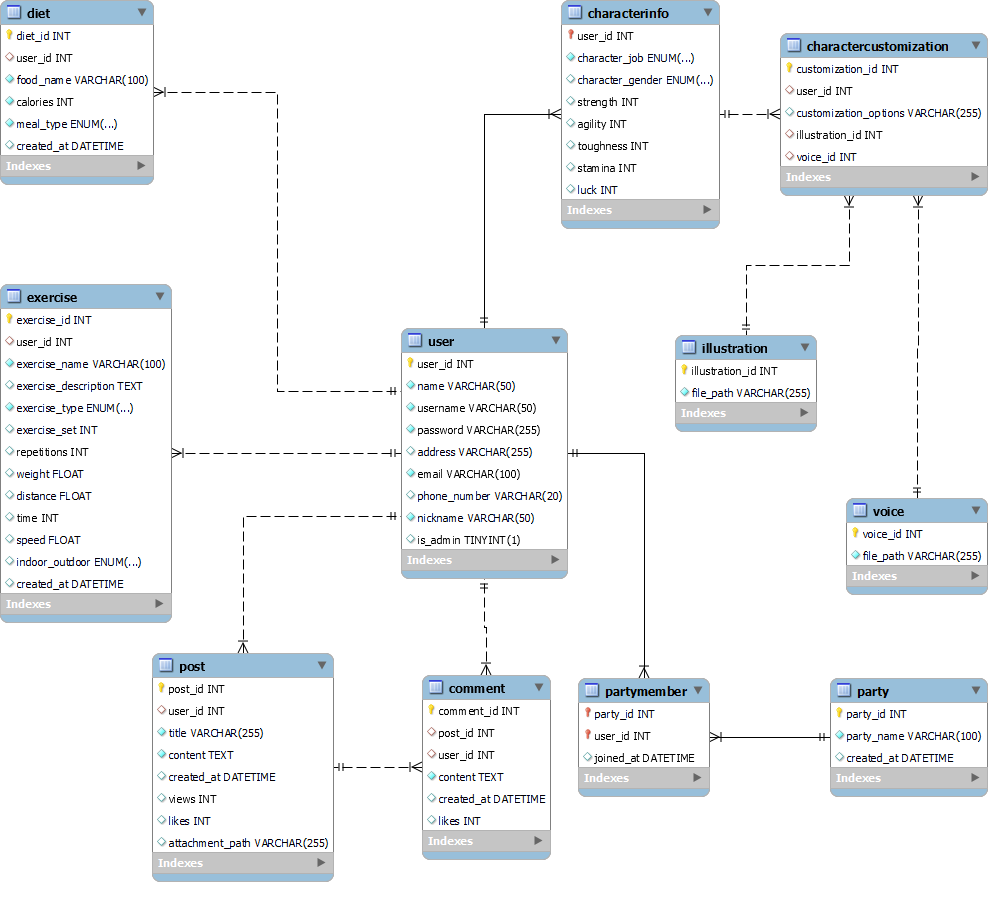
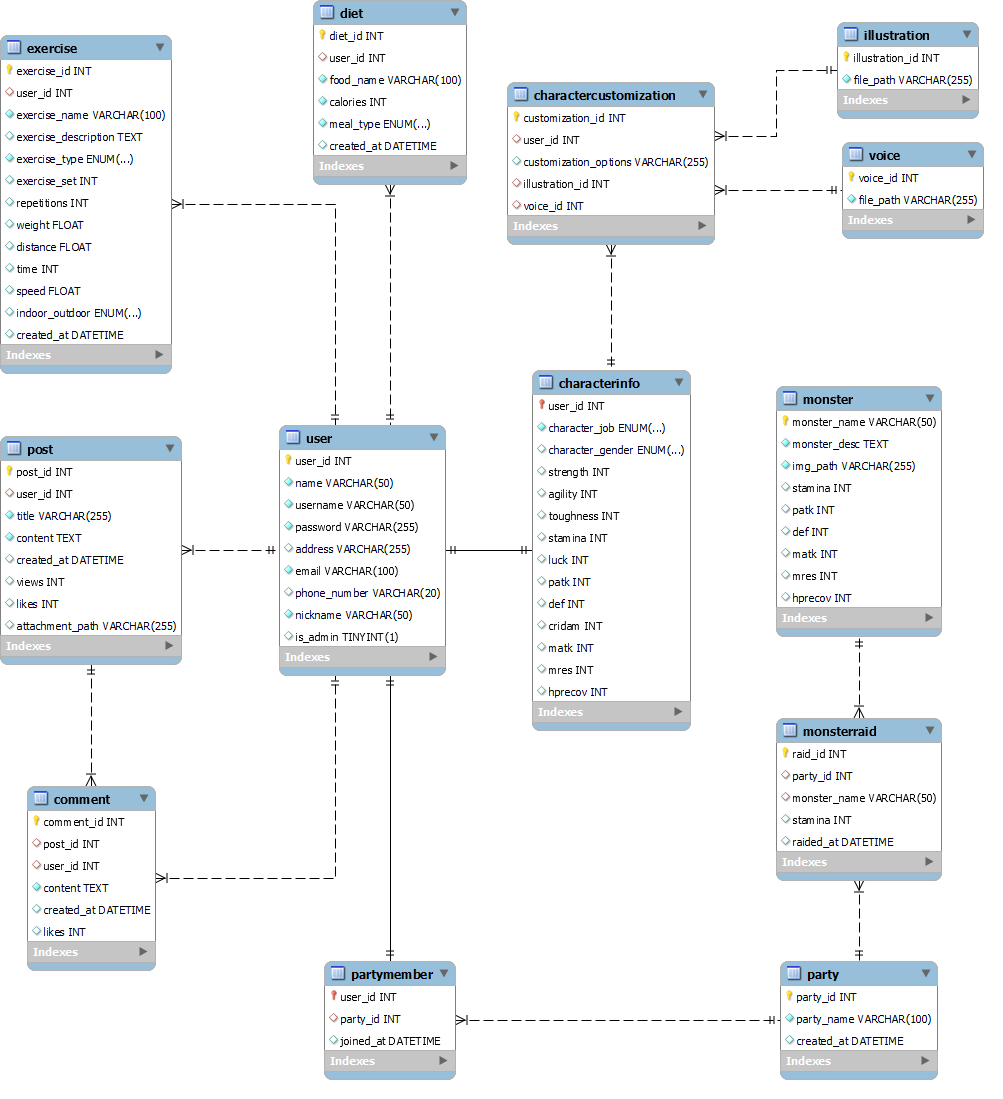
feat(database): 몬스터 및 몬스터 레이드 테이블 추가
몬스터 테이블과 몬스터 레이드 테이블을 데이터베이스에 추가했습니다.
이 테이블들은 게임의 몬스터와 관련된 정보를 관리하기 위해 설계되었습니다.

diff --git a/Temp/FitQuest/src/main/java/com/dualforce/fitquest/model/dto/UserDto.java b/Temp/FitQuest/src/main/java/com/dualforce/fitquest/model/dto/UserDto.java
@@ -1,0 +1,5 @@
+package com.dualforce.fitquest.model.dto;
+
+public class UserDto {
+
+}
